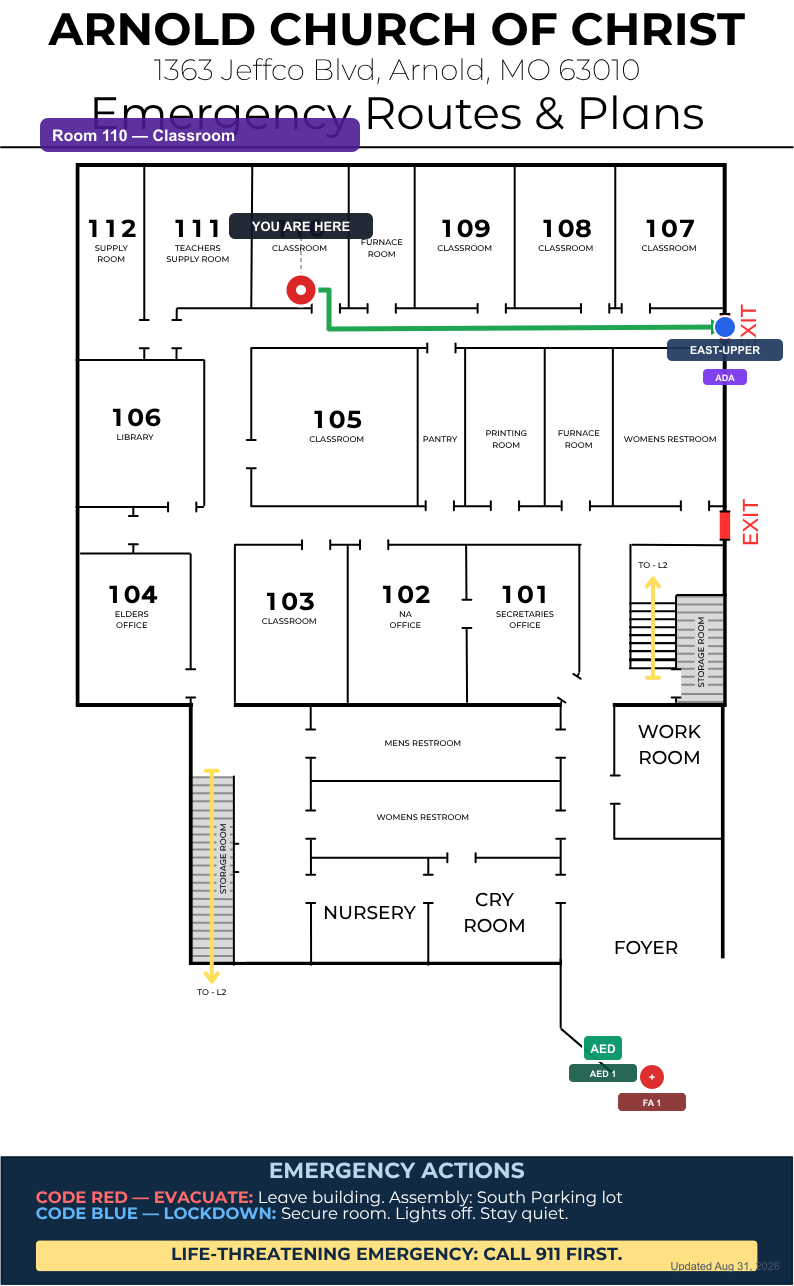
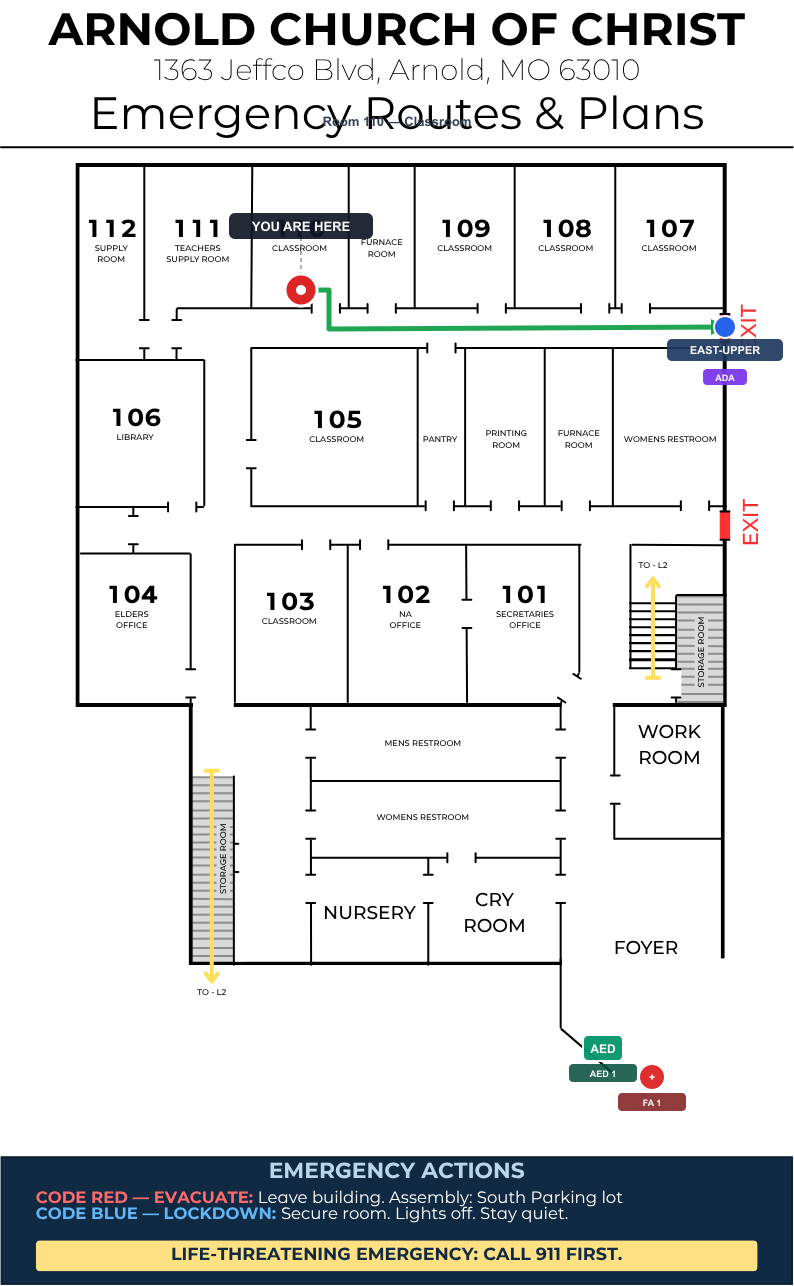
Fix poster layout: subtle room title, no date stamp on print.
Room name sits centered under the header; updated date stays on the website gallery only.

Changed region(s): [[0.0302, 0.0933, 0.4534, 0.1244], [0.8463, 0.9642, 0.9068, 0.9953], [0.5441, 0.0933, 0.5743, 0.1244]]

diff --git a/templates/classroom/maps/README.md b/templates/classroom/maps/README.md
@@ -16,7 +16,7 @@ Each room poster adds:
 - Green arrow path to nearest exit
 - **AED** (green) and **first aid** (red +) markers for the floor
 - Room label banner (e.g. `Room 107 — Classroom`)
-- **Updated** date (bottom-right) — from `updatedAt` in the overlay file; refreshes whenever you save in the map tool
+- **Updated** date — shown on the [room posters page](/classroom/room-posters/) only (not on printed PNGs)
 
 ### 1. Place pins (one time per room)
 
